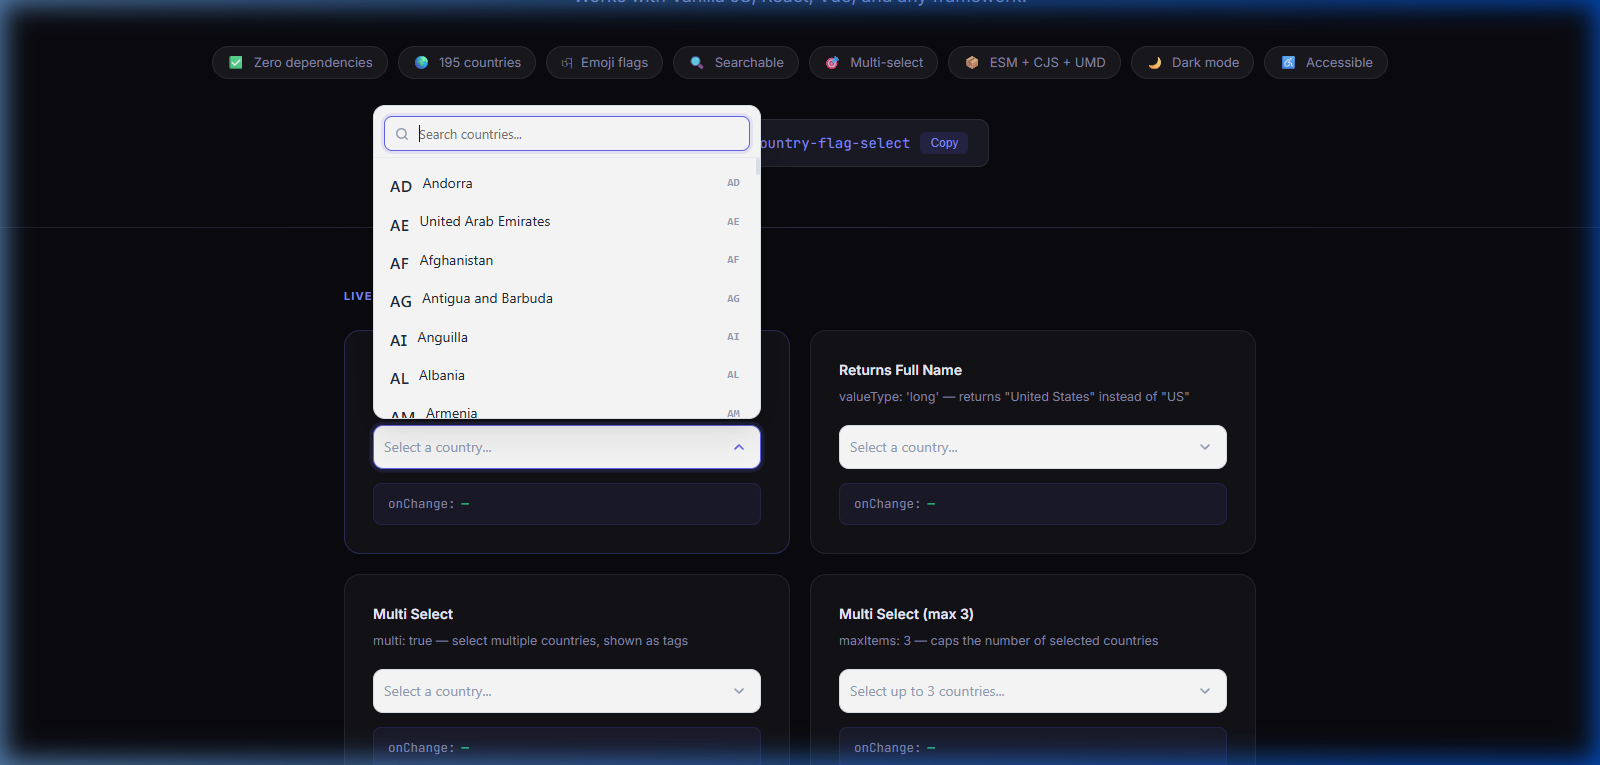
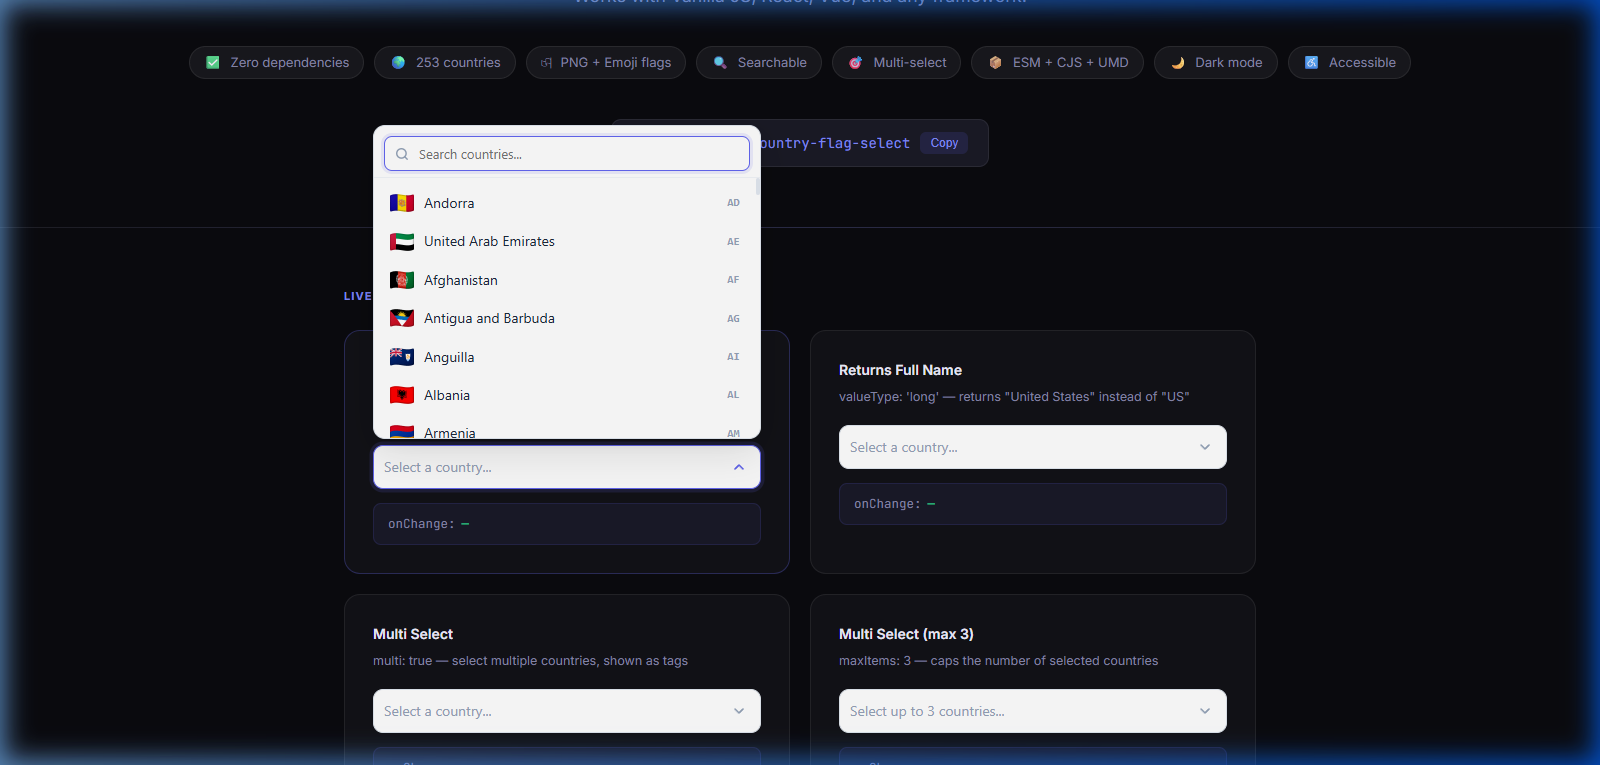
fix: use flagcdn.com images in demo (Windows emoji flag fix) - update preview screenshot

Changed region(s): [[0.2188, 0.1203, 0.5, 0.6915], [0.2188, 0.7817, 0.7812, 0.9922], [0.125, 0.0601, 0.875, 0.0902]]

diff --git a/demo/index.html b/demo/index.html
@@ -292,8 +292,8 @@
   </p>
   <div class="pills">
     <span class="pill"><span>✅</span> Zero dependencies</span>
-    <span class="pill"><span>🌍</span> 195 countries</span>
-    <span class="pill"><span>🏳</span> Emoji flags</span>
+    <span class="pill"><span>🌍</span> 253 countries</span>
+    <span class="pill"><span>🏳</span> PNG + Emoji flags</span>
     <span class="pill"><span>🔍</span> Searchable</span>
     <span class="pill"><span>🎯</span> Multi-select</span>
     <span class="pill"><span>📦</span> ESM + CJS + UMD</span>
@@ -314,8 +314,8 @@
   <div class="demos">
 
     <div class="card">
-      <div class="card-title">Single Select (default)</div>
-      <div class="card-desc">Click to open · type to search · returns country code</div>
+      <div class="card-title">Single Select</div>
+      <div class="card-desc">Click to open · type to search · returns country code · 253 countries</div>
       <div id="demo-single" class="demo-select"></div>
       <div class="output"><span class="label">onChange:</span><span id="out-single">—</span></div>
     </div>
@@ -535,9 +535,13 @@ select.<span class="fn">destroy</span>();         <span class="cm">// clean up D
       Array.isArray(val) ? JSON.stringify(val) : String(val);
   }
 
+  const FLAGS = 'https://flagcdn.com/24x18/{code}.png';
+
   // 1. Single select
   new CountryFlagSelect('#demo-single', {
     theme: 'light',
+    flagType: 'image',
+    imageUrl: FLAGS,
     onChange: v => show('out-single', v),
   });
 
@@ -545,6 +549,8 @@ select.<span class="fn">destroy</span>();         <span class="cm">// clean up D
   new CountryFlagSelect('#demo-long', {
     valueType: 'long',
     theme: 'light',
+    flagType: 'image',
+    imageUrl: FLAGS,
     onChange: v => show('out-long', v),
   });
 
@@ -552,6 +558,8 @@ select.<span class="fn">destroy</span>();         <span class="cm">// clean up D
   new CountryFlagSelect('#demo-multi', {
     multi: true,
     theme: 'light',
+    flagType: 'image',
+    imageUrl: FLAGS,
     onChange: v => show('out-multi', v),
   });
 
@@ -561,6 +569,8 @@ select.<span class="fn">destroy</span>();         <span class="cm">// clean up D
     maxItems: 3,
     placeholder: 'Select up to 3 countries...',
     theme: 'light',
+    flagType: 'image',
+    imageUrl: FLAGS,
     onChange: v => show('out-max', v),
   });
 
@@ -568,6 +578,8 @@ select.<span class="fn">destroy</span>();         <span class="cm">// clean up D
   new CountryFlagSelect('#demo-preset', {
     value: 'JP',
     theme: 'light',
+    flagType: 'image',
+    imageUrl: FLAGS,
     onChange: v => show('out-preset', v),
   });
 
@@ -575,18 +587,24 @@ select.<span class="fn">destroy</span>();         <span class="cm">// clean up D
   new CountryFlagSelect('#demo-filter', {
     include: ['US', 'GB', 'CA', 'AU', 'NZ'],
     theme: 'light',
+    flagType: 'image',
+    imageUrl: FLAGS,
     onChange: v => show('out-filter', v),
   });
 
   // 7. Dark theme
   new CountryFlagSelect('#demo-dark', {
     theme: 'dark',
+    flagType: 'image',
+    imageUrl: FLAGS,
     onChange: v => show('out-dark', v),
   });
 
   // 8. API control
   window.apiDemo = new CountryFlagSelect('#demo-api', {
     theme: 'light',
+    flagType: 'image',
+    imageUrl: FLAGS,
     onChange: v => show('out-api', v),
   });
 
